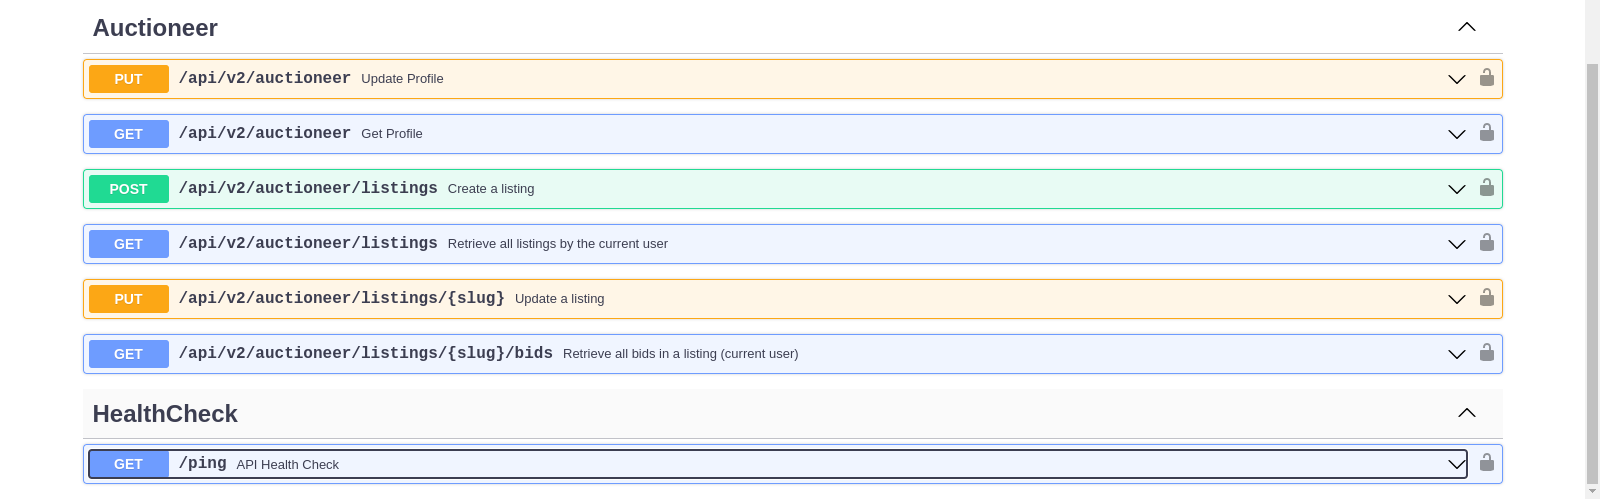
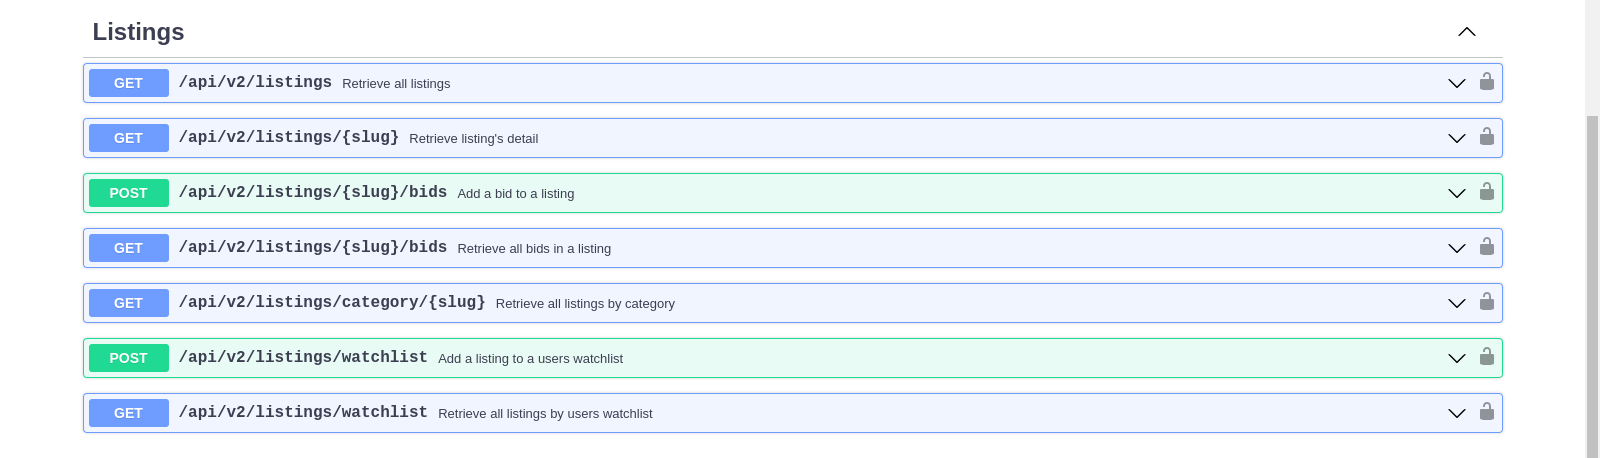
updated readme

Changed region(s): [[0.0312, 0.0306, 0.9375, 0.9782], [0.9688, 0.1223, 1.0, 0.2445], [0.9688, 0.9782, 1.0, 1.0]]

diff --git a/README.md b/README.md
@@ -58,3 +58,5 @@ OR
 ![alt text](https://github.com/kayprogrammer/bidout-auction-v2/blob/main/display/display3.png?raw=true)
 
 ![alt text](https://github.com/kayprogrammer/bidout-auction-v2/blob/main/display/display4.png?raw=true)
+
+![alt text](https://github.com/kayprogrammer/bidout-auction-v2/blob/main/display/display5.png?raw=true)
